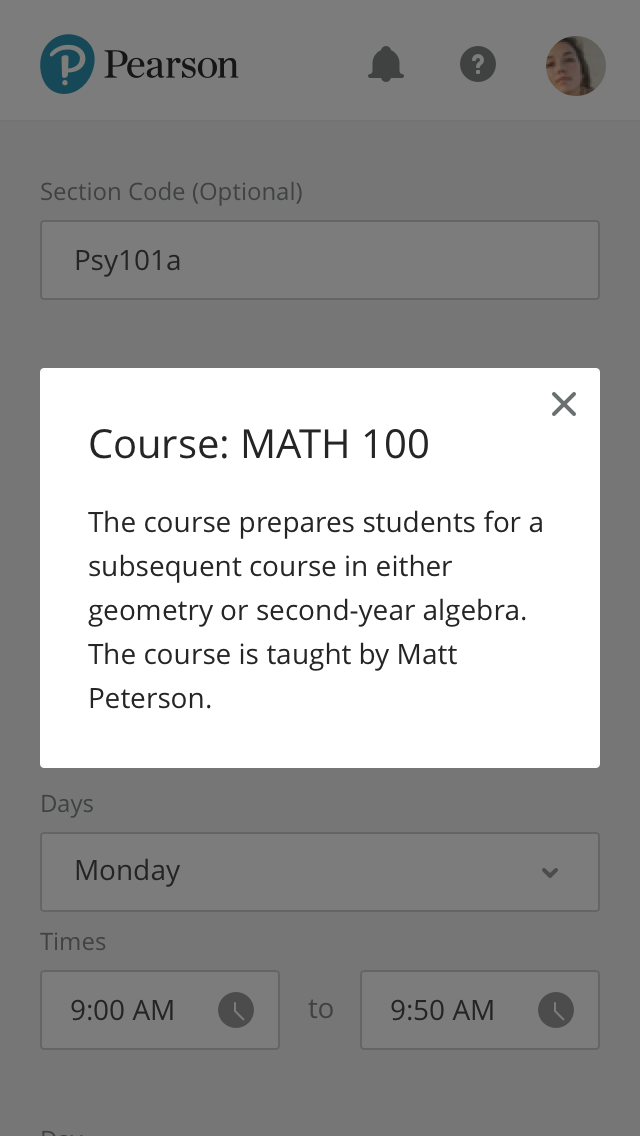
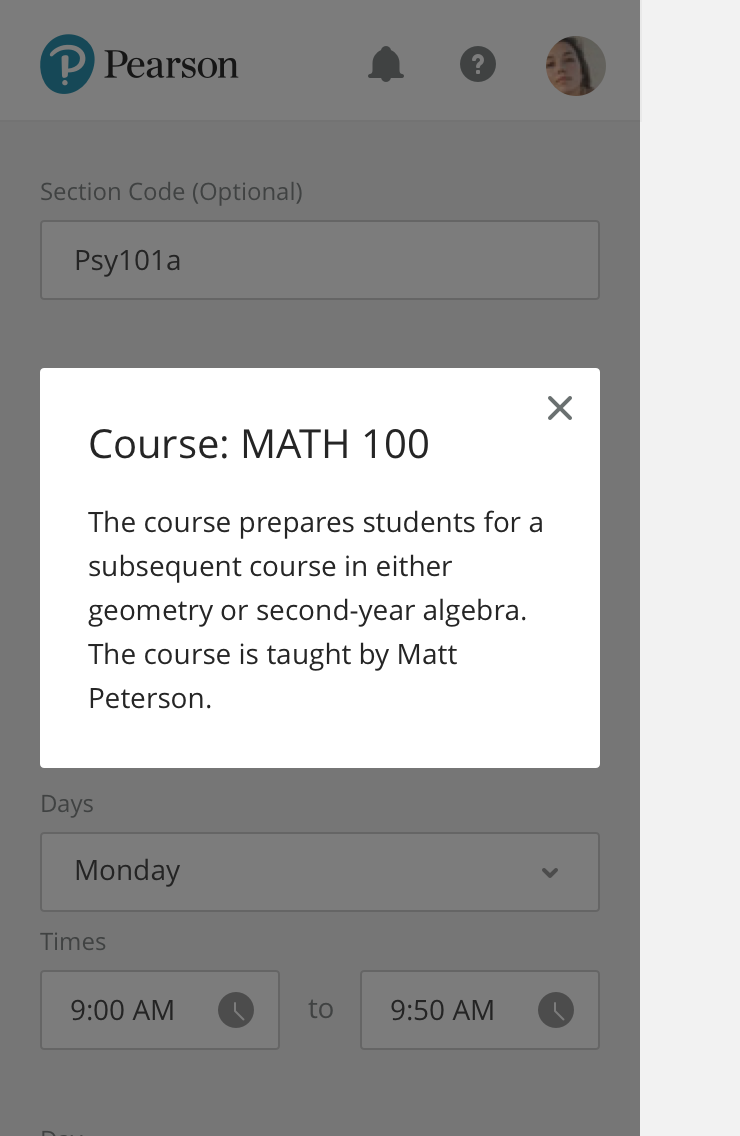
update image for mobile examples and add link to breakpoint component

diff --git a/c/modal/v2.0.1/index.md b/c/modal/v2.0.1/index.md
@@ -198,7 +198,7 @@ blocks:
   - type: two column
     text: |
 
-      ### Breakpoints
+      ### [Breakpoints](/design/c/breakpoints/#widths)
 
       - 768px
       - 480px
